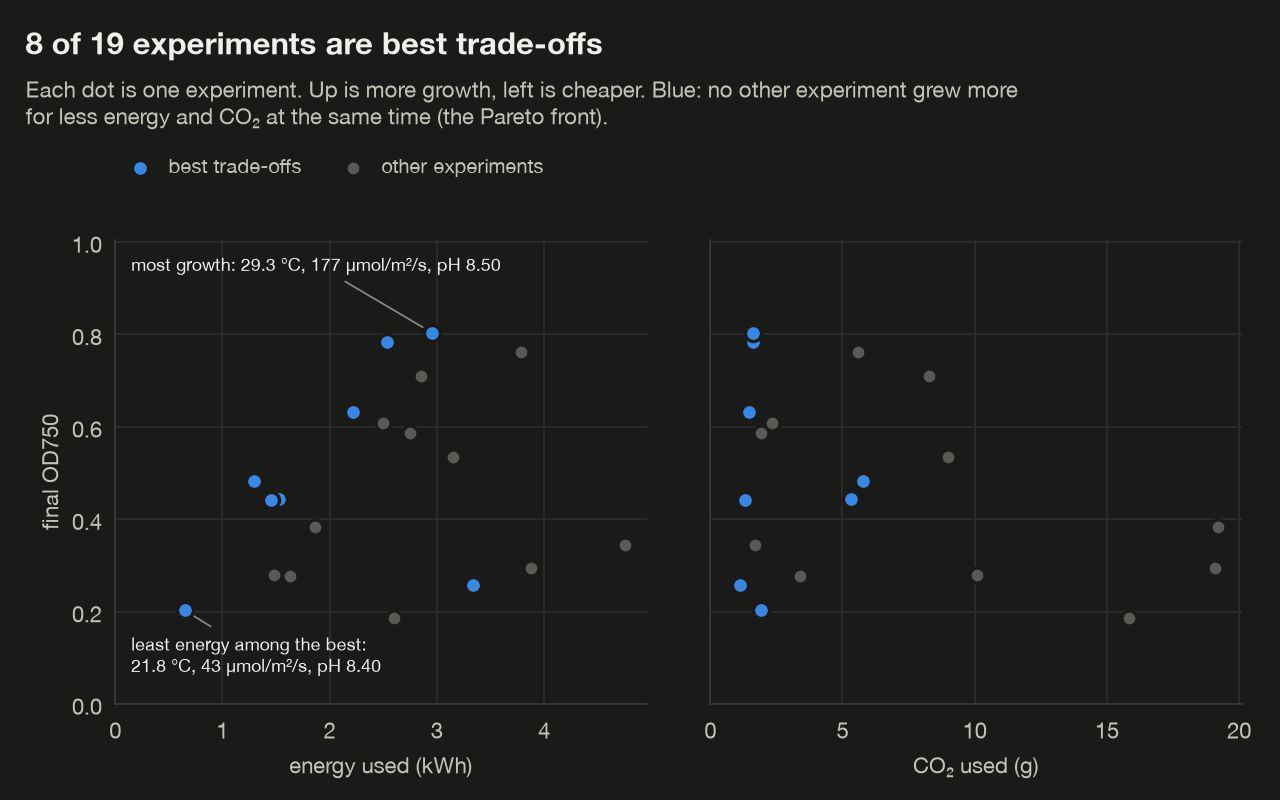
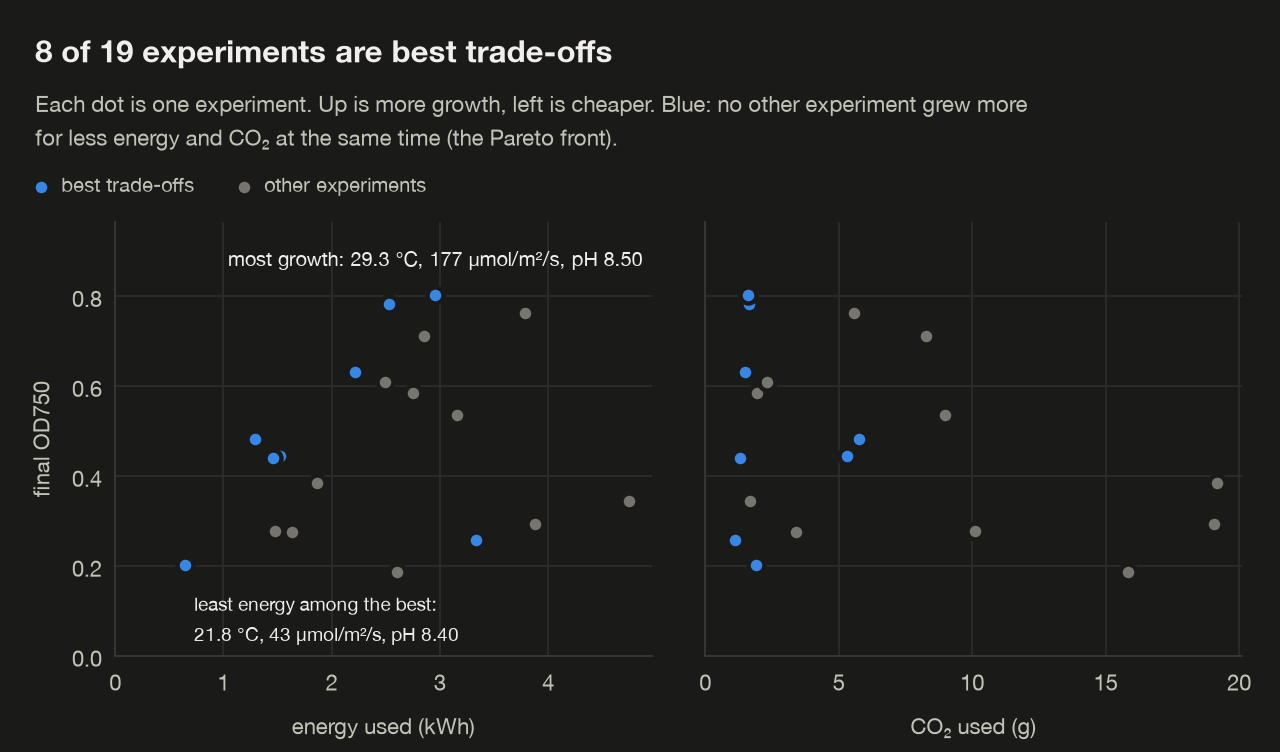
Polish the campaign charts
Lay out every chart in inches so title, subtitle, legend and plot share
the same margins and gaps. Progress: drop band labels that repeated the
legend, label the best point from above without a leader line, quieter
best-so-far line, tighter y range. Trade-offs: close the gap under the
legend, wider surface rings so overlapping dots separate. QC: neutral
rounded pass cells with smaller ticks so the failures stand out, and a
failure list grouped by experiment, aligned with the title. Dark-mode
context grey lifted to 3:1 contrast.

diff --git a/algae_sim/autolab/plot_campaign.py b/algae_sim/autolab/plot_campaign.py
@@ -40,7 +40,7 @@ THEMES: dict[str, dict[str, str]] = {
         "band": "#f0efec",
         "good": "#0ca30c",
         "critical": "#d03b3b",
-        "pass_cell": "#eef5ee",
+        "pass_cell": "#f0efec",
     },
     "dark": {
         "surface": "#1a1a19",
@@ -49,12 +49,12 @@ THEMES: dict[str, dict[str, str]] = {
         "muted": "#898781",
         "grid": "#2c2c2a",
         "axis": "#383835",
-        "context": "#5a5955",
+        "context": "#76756f",
         "series": "#3987e5",
         "band": "#262624",
         "good": "#0ca30c",
         "critical": "#d03b3b",
-        "pass_cell": "#1f2a1f",
+        "pass_cell": "#262624",
     },
 }
 
@@ -204,17 +204,52 @@ def _frame(ax: Any, theme: dict[str, str]) -> None:
     ax.tick_params(length=0, pad=6)
 
 
-def _titles(fig: Any, title: str, subtitle: str, theme: dict[str, str]) -> None:
-    fig.text(0.02, 0.97, title, fontsize=14, fontweight="bold", color=theme["ink"],
-             va="top", ha="left")
-    fig.text(0.02, 0.905, subtitle, fontsize=10, color=theme["secondary"],
-             va="top", ha="left")
+# Layout is in inches, not figure fractions, so every chart has the same margins
+# and the same gaps between title, subtitle, legend and plot whatever its height.
+LEFT_IN = 0.22  # left edge of title, subtitle, legend and notes
+TITLE_TOP_IN = 0.2
+SUBTITLE_TOP_IN = 0.56
+LINE_IN = 0.19  # one line of 10 pt text, with leading
 
 
-def _legend(fig: Any, handles: list[Any], labels: list[str]) -> None:
-    """One row of legend under the subtitle, clear of the data."""
-    fig.legend(handles, labels, loc="upper left", bbox_to_anchor=(0.08, 0.83), ncols=3,
-               fontsize=9, handletextpad=0.4, columnspacing=1.6)
+def _from_top(fig: Any, inches: float) -> float:
+    return 1 - inches / fig.get_figheight()
+
+
+def _from_left(fig: Any, inches: float) -> float:
+    return inches / fig.get_figwidth()
+
+
+def _titles(fig: Any, title: str, subtitle: str, theme: dict[str, str]) -> float:
+    """Draw title and subtitle; return how far down (inches) the subtitle ends."""
+    x = _from_left(fig, LEFT_IN)
+    fig.text(x, _from_top(fig, TITLE_TOP_IN), title, fontsize=14, fontweight="bold",
+             color=theme["ink"], va="top", ha="left")
+    fig.text(x, _from_top(fig, SUBTITLE_TOP_IN), subtitle, fontsize=10,
+             color=theme["secondary"], va="top", ha="left", linespacing=1.3)
+    return SUBTITLE_TOP_IN + LINE_IN * (subtitle.count("\n") + 1)
+
+
+def _legend(fig: Any, handles: list[Any], labels: list[str], top_in: float) -> float:
+    """One row of legend, aligned with the title; return where it ends (inches)."""
+    fig.legend(handles, labels, loc="upper left",
+               bbox_to_anchor=(_from_left(fig, LEFT_IN - 0.05), _from_top(fig, top_in)),
+               ncols=len(labels), fontsize=9, handletextpad=0.3, columnspacing=1.8,
+               borderaxespad=0, borderpad=0, handlelength=1.4)
+    return top_in + LINE_IN
+
+
+def _plot_top(fig: Any, top_in: float, bottom_in: float) -> None:
+    fig.subplots_adjust(top=_from_top(fig, top_in), bottom=bottom_in / fig.get_figheight())
+
+
+def _callout(ax: Any, text: str, xy: tuple[float, float], theme: dict[str, str],
+             *, x_fraction: float) -> None:
+    """Label a point from just above it, no leader line, kept inside the plot."""
+    ha = "right" if x_fraction > 0.8 else "left" if x_fraction < 0.2 else "center"
+    dx = {"right": 6, "left": -6, "center": 0}[ha]
+    ax.annotate(text, xy, xytext=(dx, 11), textcoords="offset points", ha=ha, va="bottom",
+                fontsize=9, color=theme["ink"], zorder=5)
 
 
 def progress_chart(
@@ -224,10 +259,10 @@ def progress_chart(
 
     scored = [e for e in experiments if e.od is not None]
     best = max(scored, key=lambda e: e.od)  # type: ignore[arg-type, return-value]
-    fig, ax = plt.subplots(figsize=(8, 4.8))
-    fig.subplots_adjust(left=0.09, right=0.97, top=0.72, bottom=0.13)
+    fig, ax = plt.subplots(figsize=(8, 4.6))
+    fig.subplots_adjust(left=0.09, right=0.97)
     _frame(ax, theme)
-    _titles(
+    below = _titles(
         fig,
         f"Best culture: OD750 {best.od:.2f}, found in experiment {best.index}",
         "Final optical density per experiment (mean of the replicates that passed QC). "
@@ -236,11 +271,8 @@ def progress_chart(
     )
 
     last = max(e.index for e in experiments)
-    ax.axvspan(-0.5, startup - 0.5, color=theme["band"], lw=0, zorder=0)
-    ax.text(startup / 2 - 0.5, 1.02, "random start-up", transform=ax.get_xaxis_transform(),
-            ha="center", va="bottom", fontsize=9, color=theme["muted"])
-    ax.text((startup + last) / 2, 1.02, "optimiser chooses", ha="center", va="bottom",
-            transform=ax.get_xaxis_transform(), fontsize=9, color=theme["muted"])
+    # The shaded band is the start-up phase; the legend's grey dot names it.
+    ax.axvspan(-0.6, startup - 0.5, color=theme["band"], lw=0, zorder=0)
 
     # Best so far, as a step line: the curve that should rise as the optimiser learns.
     xs, ys, running = [], [], 0.0
@@ -248,51 +280,43 @@ def progress_chart(
         running = max(running, e.od)  # type: ignore[type-var]
         xs.append(e.index)
         ys.append(running)
-    xs.append(last + 0.4)
+    xs.append(last + 0.6)
     ys.append(running)
-    ax.step(xs, ys, where="post", color=theme["secondary"], lw=1.5, zorder=2,
-            label="best so far")
+    ax.step(xs, ys, where="post", color=theme["muted"], lw=1.25, zorder=2,
+            solid_joinstyle="round", label="best so far")
 
     early = [e for e in scored if e.index < startup]
     later = [e for e in scored if e.index >= startup]
     ring = theme["surface"]
-    ax.scatter([e.index for e in early], [e.od for e in early], s=46, color=theme["context"],
-               edgecolor=ring, linewidth=1.5, zorder=3, label="random start-up trial")
-    ax.scatter([e.index for e in later], [e.od for e in later], s=46, color=theme["series"],
-               edgecolor=ring, linewidth=1.5, zorder=3, label="optimiser's choice")
+    dots = {"s": 52, "edgecolor": ring, "linewidth": 2, "zorder": 3}
+    ax.scatter([e.index for e in early], [e.od for e in early], color=theme["context"],
+               label="random start-up trial", **dots)
+    ax.scatter([e.index for e in later], [e.od for e in later], color=theme["series"],
+               label="optimiser's choice", **dots)
 
     top = max(e.od for e in scored)  # type: ignore[type-var]
-    excluded = [e for e in experiments if not e.observed]
-    for e in excluded:
-        ax.scatter([e.index], [0.03 * top], marker="X", s=70, color=theme["critical"],
+    for e in experiments:
+        if e.observed:
+            continue
+        ax.scatter([e.index], [0.04 * top], marker="X", s=64, color=theme["critical"],
                    edgecolor=ring, linewidth=1, zorder=3)
-        ax.annotate("excluded by QC", (e.index, 0.03 * top), xytext=(0, 9),
+        ax.annotate("excluded by QC", (e.index, 0.04 * top), xytext=(0, 9),
                     textcoords="offset points", ha="center", fontsize=8,
                     color=theme["secondary"])
 
-    right_side = best.index > last * 0.6
-    ax.annotate(
-        f"Best: {best.conditions}",
-        (best.index, best.od),
-        xytext=(-30, 16) if right_side else (30, 16),
-        textcoords="offset points",
-        ha="right" if right_side else "left",
-        va="bottom",
-        fontsize=9,
-        color=theme["ink"],
-        arrowprops={"arrowstyle": "-", "color": theme["muted"], "lw": 0.8,
-                    "shrinkA": 2, "shrinkB": 5},
-    )
+    _callout(ax, f"Best: {best.conditions}", (best.index, best.od), theme,
+             x_fraction=(best.index + 0.6) / (last + 1.2))
     ax.set_xlim(-0.6, last + 0.6)
-    ax.set_ylim(0, top * 1.25)
+    ax.set_ylim(0, top * 1.2)
     ax.set_xticks(range(0, last + 1, 2))
-    ax.set_xlabel("experiment (in the order run)")
-    ax.set_ylabel("final OD750")
+    ax.set_xlabel("experiment (in the order run)", labelpad=8)
+    ax.set_ylabel("final OD750", labelpad=8)
     ax.grid(axis="x", visible=False)
     handles, labels = ax.get_legend_handles_labels()
     order = [labels.index(n) for n in
              ("random start-up trial", "optimiser's choice", "best so far")]
-    _legend(fig, [handles[i] for i in order], [labels[i] for i in order])
+    end = _legend(fig, [handles[i] for i in order], [labels[i] for i in order], below + 0.14)
+    _plot_top(fig, end + 0.12, 0.6)
     return fig
 
 
@@ -306,10 +330,10 @@ def tradeoff_chart(experiments: list[Experiment], theme: dict[str, str]) -> Any:
     panels = [("energy", "energy used (kWh)")]
     if has_co2:
         panels.append(("co2", "CO₂ used (g)"))
-    fig, axes = plt.subplots(1, len(panels), figsize=(8, 5.0), sharey=True, squeeze=False)
-    fig.subplots_adjust(left=0.09, right=0.97, top=0.70, bottom=0.12, wspace=0.12)
+    fig, axes = plt.subplots(1, len(panels), figsize=(8, 4.7), sharey=True, squeeze=False)
+    fig.subplots_adjust(left=0.09, right=0.97, wspace=0.1)
     costs = "energy and CO₂" if has_co2 else "energy"
-    _titles(
+    below = _titles(
         fig,
         f"{len(front)} of {len(scored)} experiments are best trade-offs",
         f"Each dot is one experiment. Up is more growth, left is cheaper. Blue: no other "
@@ -319,55 +343,62 @@ def tradeoff_chart(experiments: list[Experiment], theme: dict[str, str]) -> Any:
     best = max(scored, key=lambda e: e.od)  # type: ignore[arg-type, return-value]
     cheapest = min(front, key=lambda e: e.energy)  # type: ignore[arg-type, return-value]
     ring = theme["surface"]
+    dots = {"s": 52, "edgecolor": ring, "linewidth": 2}
     for ax, (key, label) in zip(axes[0], panels, strict=True):
         _frame(ax, theme)
-        ax.scatter([getattr(e, key) for e in others], [e.od for e in others], s=46,
-                   color=theme["context"], edgecolor=ring, linewidth=1.5, zorder=3,
-                   label="other experiments")
-        ax.scatter([getattr(e, key) for e in front], [e.od for e in front], s=52,
-                   color=theme["series"], edgecolor=ring, linewidth=1.5, zorder=4,
-                   label="best trade-offs")
-        ax.set_xlabel(label)
+        ax.scatter([getattr(e, key) for e in others], [e.od for e in others],
+                   color=theme["context"], zorder=3, label="other experiments", **dots)
+        ax.scatter([getattr(e, key) for e in front], [e.od for e in front],
+                   color=theme["series"], zorder=4, label="best trade-offs", **dots)
+        ax.set_xlabel(label, labelpad=8)
         ax.set_xlim(left=0)
-    axes[0][0].set_ylabel("final OD750")
-    axes[0][0].set_ylim(0, max(e.od for e in scored) * 1.25)  # type: ignore[type-var]
     first = axes[0][0]
-    leader = {"arrowstyle": "-", "color": theme["muted"], "lw": 0.8, "shrinkA": 2, "shrinkB": 5}
-    first.annotate(f"most growth: {best.conditions}", (best.energy, best.od),
-                   xytext=(0.03, 0.97), textcoords="axes fraction", ha="left", va="top",
-                   fontsize=8, color=theme["ink"], arrowprops=leader)
+    first.set_ylabel("final OD750", labelpad=8)
+    first.set_ylim(0, max(e.od for e in scored) * 1.2)  # type: ignore[type-var]
+    right = first.get_xlim()[1]
+    _callout(first, f"most growth: {best.conditions}", (best.energy, best.od), theme,
+             x_fraction=best.energy / right)  # type: ignore[operator]
     if cheapest is not best:
         first.annotate(f"least energy among the best:\n{cheapest.conditions}",
-                       (cheapest.energy, cheapest.od), xytext=(0.03, 0.06),
-                       textcoords="axes fraction", ha="left", va="bottom", fontsize=8,
-                       color=theme["ink"], arrowprops=leader)
+                       (cheapest.energy, cheapest.od), xytext=(4, -12),
+                       textcoords="offset points", ha="left", va="top", fontsize=8.5,
+                       color=theme["ink"], linespacing=1.35, zorder=5)
     handles, labels = first.get_legend_handles_labels()
-    _legend(fig, handles[::-1], labels[::-1])
+    end = _legend(fig, handles[::-1], labels[::-1], below + 0.14)
+    _plot_top(fig, end + 0.12, 0.6)
     return fig
 
 
 def qc_chart(experiments: list[Experiment], theme: dict[str, str]) -> Any:
     import matplotlib.pyplot as plt
-    from matplotlib.patches import Rectangle
+    from matplotlib.patches import FancyBboxPatch, Rectangle
 
     reactors = sorted({r for e in experiments for r in e.reactors})
     total = sum(len(e.reactors) for e in experiments)
     failed = [(e, r, why) for e in experiments for r, why in sorted(e.failures.items())]
     excluded = [e for e in experiments if not e.observed]
-    notes = len(failed)
-    height = 3.0 + 0.24 * notes
-    fig = plt.figure(figsize=(8, height))
-    grid_top = 1 - 1.15 / height
-    grid_bottom = grid_top - 1.3 / height
-    ax = fig.add_axes((0.14, grid_bottom, 0.83, grid_top - grid_bottom))
+    # One note per experiment and reason, naming every reactor it hit.
+    notes: dict[tuple[int, str], list[str]] = {}
+    for e, reactor, why in failed:
+        notes.setdefault((e.index, why), []).append(reactor)
+    observed = {e.index: e.observed for e in experiments}
+
     word = "experiment" if len(excluded) == 1 else "experiments"
-    _titles(
+    subtitle = ("Each square is one reactor in one experiment. An experiment is learned "
+                "from only if enough\nof its replicates pass (here 2 of 3).")
+    grid_h = 0.36 * (len(reactors) + 1)  # rows plus the experiment-number header
+    height = (SUBTITLE_TOP_IN + LINE_IN * 2 + 0.3 + grid_h + 0.3 + LINE_IN * 1.2
+              + LINE_IN * len(notes) + 0.25)
+    fig = plt.figure(figsize=(8, height))
+    below = _titles(
         fig,
-        f"QC rejected {notes} of {total} replicates and excluded {len(excluded)} {word}",
-        "Each square is one reactor in one experiment. An experiment is learned from only "
-        "if enough\nof its replicates pass (here 2 of 3).",
+        f"QC rejected {len(failed)} of {total} replicates and excluded "
+        f"{len(excluded)} {word}",
+        subtitle,
         theme,
     )
+    grid_top = below + 0.3
+    ax = fig.add_axes((0.14, _from_top(fig, grid_top + grid_h), 0.83, grid_h / height))
     ax.set_axis_off()
     last = max(e.index for e in experiments)
     for e in experiments:
@@ -376,42 +407,48 @@ def qc_chart(experiments: list[Experiment], theme: dict[str, str]) -> Any:
             if reactor not in e.reactors:
                 continue
             bad = reactor in e.failures
-            ax.add_patch(Rectangle(
-                (e.index - 0.42, y - 0.42), 0.84, 0.84,
+            ax.add_patch(FancyBboxPatch(
+                (e.index - 0.4, y - 0.4), 0.8, 0.8,
+                boxstyle="round,pad=0,rounding_size=0.12",
                 facecolor=theme["critical"] if bad else theme["pass_cell"],
-                edgecolor="none",
+                edgecolor="none", mutation_aspect=1,
             ))
             if bad:
-                ax.scatter([e.index], [y], marker="x", s=36, color="#ffffff", linewidths=2,
-                           zorder=3)
-            else:
-                ax.plot([e.index - 0.18, e.index - 0.04, e.index + 0.2],
-                        [y, y - 0.15, y + 0.17], color=theme["good"], lw=1.6,
-                        solid_capstyle="round", zorder=3)
+                ax.scatter([e.index], [y], marker="x", s=30, color="#ffffff",
+                           linewidths=1.8, zorder=3)
+            else:  # a small tick: passes are the quiet majority
+                ax.plot([e.index - 0.13, e.index - 0.03, e.index + 0.15],
+                        [y + 0.01, y - 0.11, y + 0.13], color=theme["good"], lw=1.3,
+                        solid_capstyle="round", solid_joinstyle="round", zorder=3)
         if not e.observed:
             ax.add_patch(Rectangle(
-                (e.index - 0.5, -0.55), 1.0, len(reactors) + 0.1, fill=False,
-                edgecolor=theme["critical"], linewidth=1.5,
+                (e.index - 0.5, -0.52), 1.0, len(reactors) + 0.04, fill=False,
+                edgecolor=theme["critical"], linewidth=1.4,
             ))
     for row, reactor in enumerate(reactors):
         ax.text(-0.75, len(reactors) - 1 - row, reactor, ha="right", va="center",
                 fontsize=9, color=theme["secondary"])
     for e in experiments:
-        ax.text(e.index, len(reactors) - 0.35, str(e.index), ha="center", va="bottom",
+        ax.text(e.index, len(reactors) - 0.38, str(e.index), ha="center", va="bottom",
                 fontsize=8, color=theme["muted"])
-    ax.text(-0.75, len(reactors) - 0.35, "experiment", ha="right", va="bottom",
+    ax.text(-0.75, len(reactors) - 0.38, "experiment", ha="right", va="bottom",
             fontsize=8, color=theme["muted"])
     ax.set_xlim(-0.6, last + 0.6)
-    ax.set_ylim(-0.6, len(reactors) - 0.1)
+    ax.set_ylim(-0.6, len(reactors) + 0.3)
 
-    y = grid_bottom - 0.32 / height
-    fig.text(0.14, y, "Why each replicate failed", fontsize=10, fontweight="bold",
-             color=theme["ink"], va="top")
-    for e, reactor, why in failed:
-        y -= 0.24 / height
-        tail = "  · experiment excluded" if not e.observed else ""
-        fig.text(0.14, y, f"Experiment {e.index}, {reactor}: {why}{tail}", fontsize=9,
+    x = _from_left(fig, LEFT_IN)
+    y_in = grid_top + grid_h + 0.3
+    fig.text(x, _from_top(fig, y_in), "Why replicates failed", fontsize=10,
+             fontweight="bold", color=theme["ink"], va="top")
+    y_in += LINE_IN * 1.2
+    for (index, why), hit in notes.items():
+        tail = "  (experiment excluded)" if not observed[index] else ""
+        fig.text(x, _from_top(fig, y_in), f"Experiment {index}", fontsize=9,
+                 color=theme["ink"], va="top")
+        fig.text(x + _from_left(fig, 1.05), _from_top(fig, y_in),
+                 f"{' and '.join(hit)}: {why}{tail}", fontsize=9,
                  color=theme["secondary"], va="top")
+        y_in += LINE_IN
     return fig
 
 
